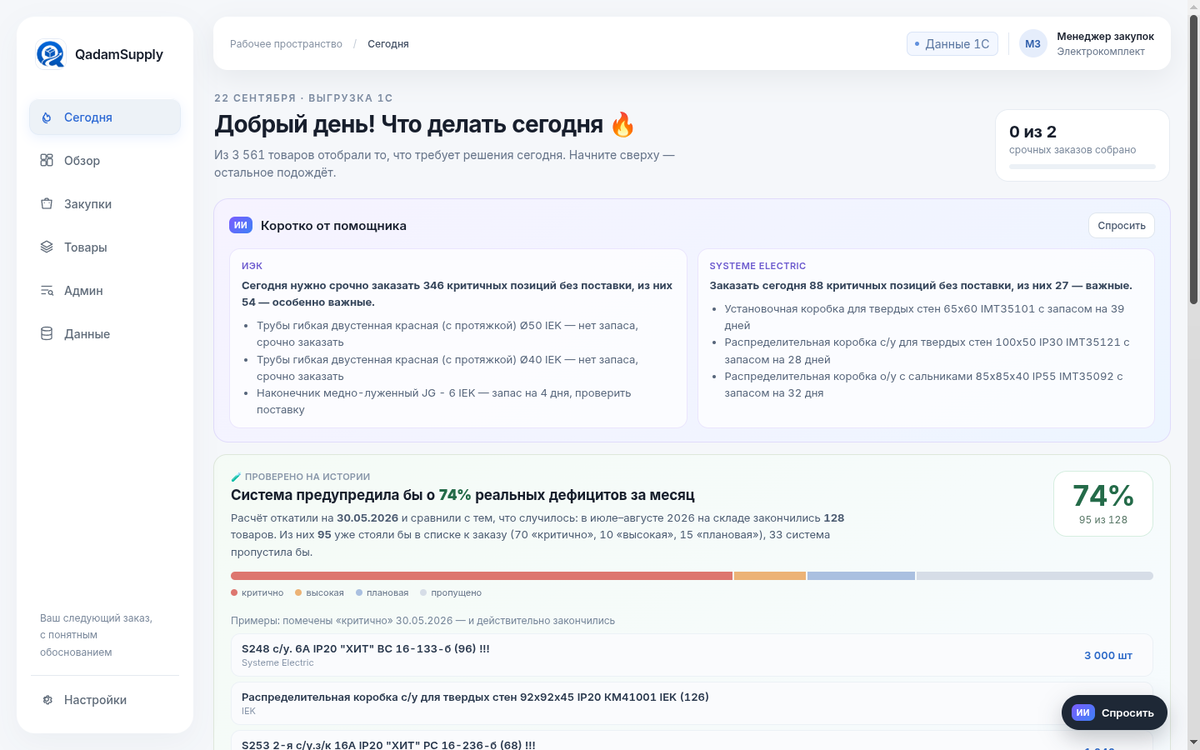
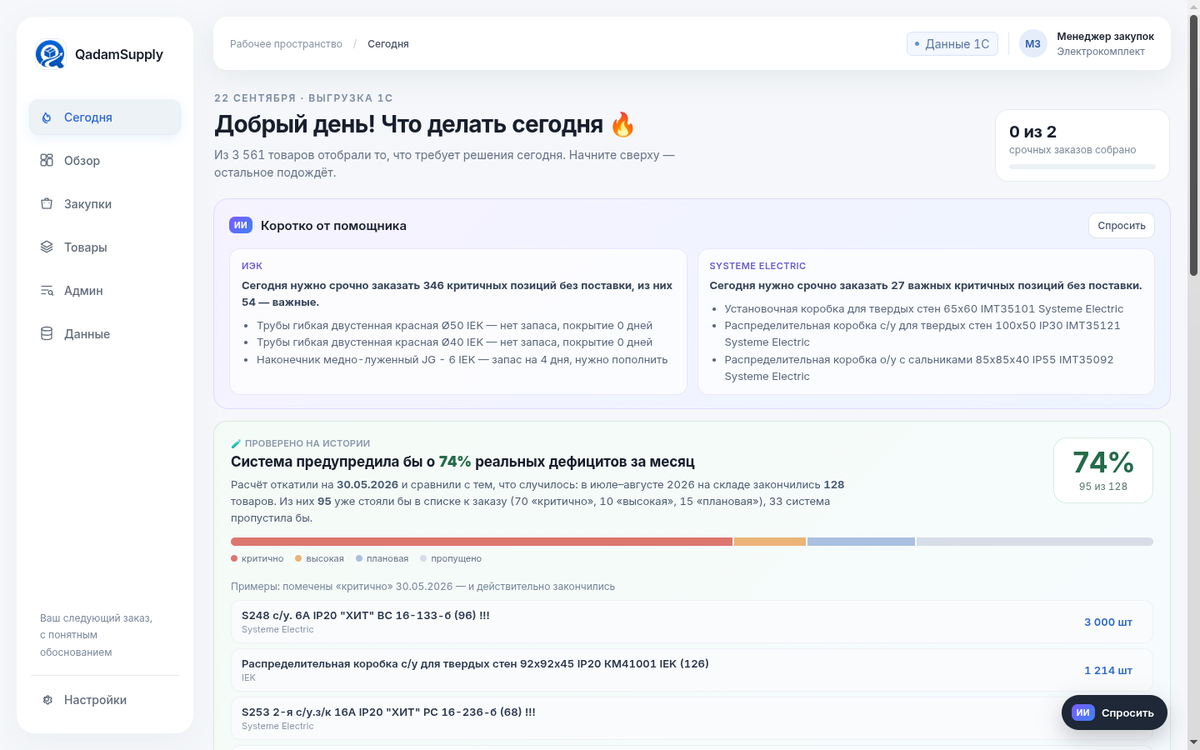
Add run-out dates, money at stake card and overstock filter

diff --git a/web/app.js b/web/app.js
@@ -31,7 +31,7 @@ function readSaved() {
   return {version:demo.version,edits:{},draft:[],rejected:[],approved:null,scenario:'base'};
 }
 const saved=readSaved();
-const state={page:'Сегодня',review:false,restored:false,tab:'recommendations',query:'',supplier:'Все',category:'Все',risk:'Все',transit:'Все',oneoff:'Все',abc:'Все',selected:new Set(),productId:null,detailTab:'recommendation',chartId:'iek-1',showSpike:false};
+const state={page:'Сегодня',review:false,restored:false,overstock:false,tab:'recommendations',query:'',supplier:'Все',category:'Все',risk:'Все',transit:'Все',oneoff:'Все',abc:'Все',selected:new Set(),productId:null,detailTab:'recommendation',chartId:'iek-1',showSpike:false};
 let allProducts=[], sources=[];
 function persist(){try{localStorage.setItem(storageKey,JSON.stringify(saved));}catch{storageFailed=true; toast('Сохранение недоступно. Правки останутся только до закрытия страницы.');}}
 function invalidate(){saved.approved=null;}
@@ -42,13 +42,13 @@ function unitCost(p){return p.unit_cost ?? (p.order_value&&p.recommended_qty?p.o
 function rationale(p){const base=p.reason_text||'';return changed(p)?`${base} Менеджер изменил количество: ${fmt(p.recommended_qty)} → ${fmt(quantity(p))} ${p.unit}${comment(p)?` (${comment(p)})`:''}.`.trim():base;}
 function changed(p){return quantity(p)!==p.recommended_qty;}
 function comment(p){return saved.edits[p.id]?.comment||'';}
-function filtered(){const q=state.query.trim().toLocaleLowerCase('ru');return products().filter(p=>(state.supplier==='Все'||p.supplier===state.supplier)&&(state.category==='Все'||p.category===state.category)&&(state.transit==='Все'||(state.transit==='Есть'?p.in_transit_in_horizon>0:!p.in_transit_in_horizon))&&(state.oneoff==='Все'||(p.excluded_events?.length>0))&&(state.abc==='Все'||p.abc===state.abc)&&(!state.review||needsReview(p))&&(!state.restored||p.lost_qty>0)&&(!q||`${p.name} ${p.article} ${p.sku} ${p.supplier}`.toLocaleLowerCase('ru').includes(q)));}
+function filtered(){const q=state.query.trim().toLocaleLowerCase('ru');return products().filter(p=>(state.supplier==='Все'||p.supplier===state.supplier)&&(state.category==='Все'||p.category===state.category)&&(state.transit==='Все'||(state.transit==='Есть'?p.in_transit_in_horizon>0:!p.in_transit_in_horizon))&&(state.oneoff==='Все'||(p.excluded_events?.length>0))&&(state.abc==='Все'||p.abc===state.abc)&&(!state.review||needsReview(p))&&(!state.restored||p.lost_qty>0)&&(!state.overstock||isOverstock(p))&&(!q||`${p.name} ${p.article} ${p.sku} ${p.supplier}`.toLocaleLowerCase('ru').includes(q)));}
 function toast(message){$('#toast').textContent=message;$('#toast').classList.add('show');clearTimeout(toast.timer);toast.timer=setTimeout(()=>$('#toast').classList.remove('show'),3500);}
-function navigate(page,tab='recommendations'){state.page=page;state.tab=tab;state.query='';state.supplier='Все';state.category='Все';state.risk='Все';state.transit='Все';state.oneoff='Все';state.abc='Все';state.review=false;state.restored=false;state.selected.clear();render();window.scrollTo({top:0,behavior:'instant'});}
+function navigate(page,tab='recommendations'){state.page=page;state.tab=tab;state.query='';state.supplier='Все';state.category='Все';state.risk='Все';state.transit='Все';state.oneoff='Все';state.abc='Все';state.review=false;state.restored=false;state.overstock=false;state.selected.clear();render();window.scrollTo({top:0,behavior:'instant'});}
 function header(title,description,actions=''){return `<header class="header"><div><div class="eyebrow">ПЛАНИРОВАНИЕ ЗАПАСОВ / ${saved.scenario==='growth'?'СЦЕНАРИЙ +20%':'22 СЕНТЯБРЯ 2026'}</div><h1>${title}</h1><p>${description}</p></div><div class="header-actions">${actions}</div></header>`;}
 const btn = (text,action,kind='',extra='')=>`<button class="btn ${kind}" data-action="${action}" ${extra}>${text}</button>`;
 function empty(title,description,action=''){return `<div class="empty"><div class="empty-icon">${icon('box')}</div><h2>${title}</h2><p>${description}</p>${action}</div>`;}
-function filterBar(category=true){return `<div class="filters"><label class="filter-search">${icon('search')}<input id="list-search" aria-label="Поиск по товару, коду или артикулу" placeholder="Товар, код 1С или артикул" value="${esc(state.query)}"></label><select id="supplier-filter" aria-label="Поставщик"><option value="Все">Все поставщики</option>${suppliers.map(s=>`<option ${state.supplier===s?'selected':''}>${s}</option>`).join('')}</select>${category?`<select id="category-filter" aria-label="Категория"><option value="Все">Все категории</option>${[...new Set(allProducts.map(p=>p.category))].map(c=>`<option ${state.category===c?'selected':''}>${c}</option>`).join('')}</select>`:''}${extraFilters()}${state.review?btn('На проверку ✕','clear-review','chip active'):''}${state.restored?btn('Досчитан спрос ✕','clear-restored','chip active'):''}${state.query||state.supplier!=='Все'||state.category!=='Все'||state.transit!=='Все'||state.oneoff!=='Все'||state.abc!=='Все'||state.review||state.restored?btn('Сбросить','clear-filters','text'):''}</div>`;}
+function filterBar(category=true){return `<div class="filters"><label class="filter-search">${icon('search')}<input id="list-search" aria-label="Поиск по товару, коду или артикулу" placeholder="Товар, код 1С или артикул" value="${esc(state.query)}"></label><select id="supplier-filter" aria-label="Поставщик"><option value="Все">Все поставщики</option>${suppliers.map(s=>`<option ${state.supplier===s?'selected':''}>${s}</option>`).join('')}</select>${category?`<select id="category-filter" aria-label="Категория"><option value="Все">Все категории</option>${[...new Set(allProducts.map(p=>p.category))].map(c=>`<option ${state.category===c?'selected':''}>${c}</option>`).join('')}</select>`:''}${extraFilters()}${state.review?btn('На проверку ✕','clear-review','chip active'):''}${state.restored?btn('Досчитан спрос ✕','clear-restored','chip active'):''}${state.overstock?btn('Излишки > 6 мес ✕','clear-overstock','chip active'):''}${state.query||state.supplier!=='Все'||state.category!=='Все'||state.transit!=='Все'||state.oneoff!=='Все'||state.abc!=='Все'||state.review||state.restored||state.overstock?btn('Сбросить','clear-filters','text'):''}</div>`;}
 
 function extraFilters(){
  const abcs=[...new Set(allProducts.map(p=>p.abc).filter(Boolean))].sort();
@@ -112,7 +112,25 @@ function todayTasks(){
  }).filter(t=>t.items.length);
  return {orders,review:ps.filter(needsReview).sort(order),coming:ps.filter(p=>p.urgency==='CRITICAL'&&p.in_transit_in_horizon>0).sort(order),ps};
 }
-function todayItem(p){return `<button class="today-item" data-action="product" data-id="${p.id}"><span class="ti-name">${esc(p.name)}<small>${esc(p.article)}</small></span><span class="ti-stock">${coverCell(p)}</span><span class="ti-qty">${unit(quantity(p),p)}</span></button>`;}
+function todayItem(p){return `<button class="today-item" data-action="product" data-id="${p.id}"><span class="ti-name">${esc(p.name)}<small>${esc(p.article)}</small></span><span class="ti-stock">${(()=>{const r=runout(p);return r?(p.stock_current?`до ${dmy(r.out)}`:'нет в наличии')+(r.gap>0?` · <b class="cover-none">−${r.gap} дн</b>`:''):'—';})()}</span><span class="ti-qty">${unit(quantity(p),p)}</span></button>`;}
+
+// --- даты «закончится / придёт» и деньги (только где есть себестоимость)
+function addDays(n){const d=demo.asOf?new Date(demo.asOf+'T12:00:00'):new Date();d.setDate(d.getDate()+Math.round(n));return d;}
+const dmy=d=>d.toLocaleDateString('ru-RU',{day:'2-digit',month:'2-digit'});
+function runout(p){
+ if(p.cover_days==null)return null;
+ const out=addDays(p.cover_days), arrive=addDays(p.lead_time_days||0), gap=Math.max(0,Math.round((p.lead_time_days||0)-p.cover_days));
+ return {out,arrive,gap};
+}
+function runoutText(p){const r=runout(p);if(!r)return '';return r.gap>0?`закончится ${dmy(r.out)}, поставка при заказе сегодня — ${dmy(r.arrive)} · <b class="cover-none">${r.gap} дн. без товара</b>`:`закончится ${dmy(r.out)}, поставка успевает (${dmy(r.arrive)})`;}
+function isOverstock(p){return (p.base_monthly||0)>0&&p.stock_current>6*p.base_monthly;}
+function moneyCard(ps){
+ const priced=ps.filter(p=>p.unit_cost);if(!priced.length)return '';
+ const sup=[...new Set(priced.map(p=>p.supplier))].map(supplierName).join(', ');
+ const over=priced.filter(isOverstock), overSum=over.reduce((a,p)=>a+(p.stock_current-6*p.base_monthly)*p.unit_cost,0);
+ const risk=priced.filter(p=>p.urgency==='CRITICAL'), riskSum=risk.reduce((a,p)=>a+Math.max(0,p.forecast_horizon-p.stock_current-p.in_transit_in_horizon)*p.unit_cost,0);
+ return `<article class="today-card money"><div class="today-card-head"><span class="today-step">₸</span><div><div class="today-tag">💰 Деньги · ${esc(sup)}</div><h2>Что стоит на кону</h2><p>Считаем по себестоимости из файла менеджера; у ИЭК цен в данных нет.</p></div></div><div class="money-grid"><button class="kpi alert" data-action="today-open" data-supplier="${esc(priced[0].supplier)}" title="Продажи по критичным позициям, которые не покрыты остатком и путём до горизонта"><span>Под риском до поставки</span><strong>${money(riskSum)}</strong><small>${positions(risk.length)} критично</small></button><button class="kpi calm" data-action="overstock" data-supplier="${esc(priced[0].supplier)}" title="Остаток сверх 6 месяцев спроса × себестоимость"><span>Заморожено в излишках</span><strong>${money(overSum)}</strong><small>${positions(over.length)} с запасом > 6 мес.</small></button></div><div class="context-note">${icon('info')} Излишки — деньги, которые можно не тратить на следующий заказ; риск — продажи, которые уйдут к конкуренту без заказа сегодня.</div></article>`;
+}
 function orderTask(t,n){
  const done=t.items.every(p=>saved.draft.includes(p.id)), value=t.items.reduce((a,p)=>a+(p.order_value||0),0);
  const imp=t.important?(t.supplier==='IEK'?' категории A':' категории 1'):'';
@@ -133,6 +151,7 @@ function today(){
  const hero=`<section class="today-hero"><div><div class="eyebrow">${esc(dateLabel())}</div><h1>${hello}! Что делать сегодня 🔥</h1><p>Из ${fmt(ps.length)} товаров отобрали то, что требует решения сегодня. Начните сверху — остальное подождёт.</p></div>${orders.length?`<button class="today-progress" data-action="open-draft" title="Открыть черновик"><strong>${done} из ${orders.length}</strong><span>срочных заказов собрано</span><div class="bar"><i style="width:${done/orders.length*100}%"></i></div></button>`:''}</section>${aiBriefBlock()}${backtestCard()}`;
  const fire=orders.length?`<section class="today-fire">${orders.map((t,i)=>orderTask(t,i+1)).join('')}</section>`:`<div class="notice info"><div>${icon('check')}</div><div><strong>Срочных заказов нет</strong>По всем критичным позициям уже едет поставка.</div></div>`;
  const side=[
+  moneyCard(ps),
   review.length?smallTask('warn','⚠ Проверить',++n,'Проверить перед заказом',`<strong>${positions(review.length)}</strong>: кратность сильно увеличила заказ или он заметно больше обычных продаж. Посмотрите и поправьте количество.`,review,'today-review','Разобрать список'):'',
   coming.length?smallTask('info','🚚 Проследить',++n,'Проследить за поставками',`<strong>${positions(coming.length)}</strong> в критичном запасе, но поставка уже едет. Проверьте, что приход не задержится.`,coming,'today-coming','Посмотреть'):'',
   `<article class="today-card ok"><div class="today-card-head"><span class="today-step">${icon('check')}</span><div><div class="today-tag">✅ Уже сделано за вас</div><h2>Расчёт готов</h2></div></div><ul class="today-checks"><li><button class="check-link" data-action="catalog">Пересчитали <strong>${fmt(ps.length)}</strong> товаров по данным на ${esc(dateLabel().split(' · ')[0])}</button></li>${oneoff?`<li><button class="check-link" data-action="oneoff">Исключили разовые сделки у <strong>${fmt(oneoff)}</strong> товаров — они не раздувают заказ</button></li>`:''}${restored?`<li><button class="check-link" data-action="today-restored">Досчитали спрос у <strong>${fmt(restored)}</strong> товаров за месяцы без остатка</button></li>`:''}</ul><div class="today-actions">${loop?btn('Пример: разовая сделка','today-example','small',`data-id="${esc(loop.id)}"`):''}${btn('Весь обзор','go-overview','small')}</div></article>`,
@@ -258,7 +277,7 @@ function detailsBody(p){
  if(state.detailTab==='history')return `<div class="card-sub">${p.history_label||(p.id==='iek-loop'?'Архивный демо-кейс · апрель — ноябрь 2025':'Демо · апрель — ноябрь 2026; сентябрь — неполный месяц')} · ${p.unit}<br>График базового сценария</div>${chart(p,{detail:true,spike:state.showSpike})}${p.excluded_events.map(e=>`<div class="event-card"><strong>Разовая крупная продажа скорректирована</strong><br>${e.date} · накладная ${e.doc}<br>Продажа: <strong>${unit(e.qty,p)}</strong> → учтено ${unit(e.threshold,p)}<br>Из регулярного спроса исключено ${unit(e.excess,p)}</div>`).join('')}${p.lost_qty?`<div class="notice"><div>${icon('info')}</div><div><strong>Восстановлен упущенный спрос</strong>${p.restored_text?p.restored_text+'<br>':'Июль: факт 4 шт. → скорректированный спрос 52 шт.<br>'}Восстановлено ${unit(p.lost_qty,p)} из-за отсутствия товара.</div></div>`:''}<details class="disclosure"><summary>Посмотреть значения по месяцам</summary><table class="history-table"><thead><tr><th>Месяц</th><th class="num">Факт</th><th class="num">Скорр.</th><th class="num">Прогноз</th></tr></thead><tbody>${p.history.map(s=>`<tr><td>${s.month}</td><td class="num">${s.raw===null?'—':fmt(s.raw)}</td><td class="num">${s.clean===null?'—':fmt(s.clean)}</td><td class="num">${s.forecast===null?'—':fmt(s.forecast)}</td></tr>`).join('')}</tbody></table></details>`;
  if(state.detailTab==='data')return `<div class="notice"><div>${icon('alert')}</div><div><strong>${p.quality}</strong>${p.warnings.map(esc).join('<br>')}</div></div><div class="details-grid"><div class="detail-tile">Код 1С<strong>${p.sku}</strong></div><div class="detail-tile">Единица измерения<strong>${p.unit}</strong></div><div class="detail-tile">Срок поставки<strong>${p.lead_time_days} дней</strong></div><div class="detail-tile">Кратность заказа<strong>${unit(p.moq,p)}</strong></div></div><p class="reason">Все значения этой карточки заданы в демо-наборе. Они не являются результатом обработки реальных файлов.</p><details class="disclosure" open><summary>Источники и актуальность</summary><p>${demo.live?`Продажи и транзит: выгрузка 1С на ${demo.asOf.split('-').reverse().join('.')}.<br>${p.warnings.map(esc).join('<br>')}`:`Продажи и транзит: демо-снимок на 22.09.2026.<br>Остатки: демонстрационная оценка.<br>${p.id==='iek-loop'?'График LOOP показывает отдельный архивный кейс 2025 года.':''}`}</p></details>`;
  const rounded=Math.max(0,p.need);
- return `<div class="recommendation-hero"><div class="label">Рекомендуем ${p.recommended_qty?'заказать':'сохранить текущий запас'}</div><div class="value">${fmt(p.recommended_qty)} <span>${p.unit}</span></div><p>${p.recommended_qty?`На горизонт ${days(p.horizon_days??demo.horizon)} · кратность ${unit(p.moq,p)}`:'Дополнительный заказ не требуется'}${saved.scenario==='growth'?' · сценарий +20%':''}</p></div><div class="section-label">Почему именно столько</div><div class="breakdown">${[['forecast','Прогноз на горизонт',p.forecast_horizon,''],['safety','Страховой запас',p.safety_stock,'+'],['stock','Текущий остаток',p.stock_current,'−'],['transit','Товар в пути',p.in_transit_in_horizon,'−']].map(([k,label,n,sign])=>bdRow(p,k,label,`${sign} ${unit(n,p)}`)).join('')}${bdRow(p,'need','Потребность до округления',unit(rounded,p))}${bdRow(p,'moq',p.need<=0?'Запаса достаточно':'С учётом кратности',unit(p.recommended_qty,p),'total')}</div><div class="bd-hint">${icon('info')} Нажмите на строку, чтобы увидеть, из чего она сложилась</div>${demo.live?`<div class="explain-row">${btn('<span class="ai-badge">ИИ</span> Объяснить простыми словами','explain-product','small')}</div>`:''}${reasonList(p)}<div class="details-grid"><div class="detail-tile">Запаса хватит<strong>${days(p.cover_days)}</strong></div><div class="detail-tile">Срок поставки<strong>${days(p.lead_time_days)}</strong>${leadSource(p)}</div>${p.horizon_days?`<div class="detail-tile">Горизонт расчёта<strong>${days(p.horizon_days)}</strong><small>срок поставки + ${demo.reviewDays} дн. до следующего заказа</small></div>`:''}${p.abc?`<div class="detail-tile">Категория важности<strong>${esc(p.abc)}</strong><small>${abcHint(p.abc)}</small></div>`:''}</div>${whatIfBlock(p)}${saved.scenario==='growth'?'<div class="notice info">Срочность, покрытие и графики показаны для базового сценария. '+(demo.live?'Количество +20% пересчитано движком.':'Количество +20% задано заранее.')+'</div>':''}<details class="disclosure"><summary>${p.quality} · посмотреть оговорки</summary><p>${p.warnings.map(esc).join('<br>')}</p></details><div class="edit-form"><label for="detail-qty">Ваше количество к заказу</label><div class="qty"><input id="detail-qty" type="number" min="0" step="1" value="${quantity(p)}">${p.unit}</div><div class="field-hint">Рекомендация ${unit(p.recommended_qty,p)} останется видимой. Кратность: ${unit(p.moq,p)}</div><label for="detail-comment" style="margin-top:14px">Комментарий к решению</label><textarea id="detail-comment" maxlength="500" placeholder="Например: согласовано с менеджером проекта">${esc(comment(p))}</textarea><div id="detail-error" class="field-error" role="alert"></div>${btn('Сохранить правку','save-edit','small')}</div>`;
+ return `<div class="recommendation-hero"><div class="label">Рекомендуем ${p.recommended_qty?'заказать':'сохранить текущий запас'}</div><div class="value">${fmt(p.recommended_qty)} <span>${p.unit}</span></div><p>${p.recommended_qty?`На горизонт ${days(p.horizon_days??demo.horizon)} · кратность ${unit(p.moq,p)}`:'Дополнительный заказ не требуется'}${saved.scenario==='growth'?' · сценарий +20%':''}</p>${p.urgency==='CRITICAL'||p.urgency==='HIGH'?`<p class="runout">${runoutText(p)}</p>`:''}</div><div class="section-label">Почему именно столько</div><div class="breakdown">${[['forecast','Прогноз на горизонт',p.forecast_horizon,''],['safety','Страховой запас',p.safety_stock,'+'],['stock','Текущий остаток',p.stock_current,'−'],['transit','Товар в пути',p.in_transit_in_horizon,'−']].map(([k,label,n,sign])=>bdRow(p,k,label,`${sign} ${unit(n,p)}`)).join('')}${bdRow(p,'need','Потребность до округления',unit(rounded,p))}${bdRow(p,'moq',p.need<=0?'Запаса достаточно':'С учётом кратности',unit(p.recommended_qty,p),'total')}</div><div class="bd-hint">${icon('info')} Нажмите на строку, чтобы увидеть, из чего она сложилась</div>${demo.live?`<div class="explain-row">${btn('<span class="ai-badge">ИИ</span> Объяснить простыми словами','explain-product','small')}</div>`:''}${reasonList(p)}<div class="details-grid"><div class="detail-tile">Запаса хватит<strong>${days(p.cover_days)}</strong></div><div class="detail-tile">Срок поставки<strong>${days(p.lead_time_days)}</strong>${leadSource(p)}</div>${p.horizon_days?`<div class="detail-tile">Горизонт расчёта<strong>${days(p.horizon_days)}</strong><small>срок поставки + ${demo.reviewDays} дн. до следующего заказа</small></div>`:''}${p.abc?`<div class="detail-tile">Категория важности<strong>${esc(p.abc)}</strong><small>${abcHint(p.abc)}</small></div>`:''}</div>${whatIfBlock(p)}${saved.scenario==='growth'?'<div class="notice info">Срочность, покрытие и графики показаны для базового сценария. '+(demo.live?'Количество +20% пересчитано движком.':'Количество +20% задано заранее.')+'</div>':''}<details class="disclosure"><summary>${p.quality} · посмотреть оговорки</summary><p>${p.warnings.map(esc).join('<br>')}</p></details><div class="edit-form"><label for="detail-qty">Ваше количество к заказу</label><div class="qty"><input id="detail-qty" type="number" min="0" step="1" value="${quantity(p)}">${p.unit}</div><div class="field-hint">Рекомендация ${unit(p.recommended_qty,p)} останется видимой. Кратность: ${unit(p.moq,p)}</div><label for="detail-comment" style="margin-top:14px">Комментарий к решению</label><textarea id="detail-comment" maxlength="500" placeholder="Например: согласовано с менеджером проекта">${esc(comment(p))}</textarea><div id="detail-error" class="field-error" role="alert"></div>${btn('Сохранить правку','save-edit','small')}</div>`;
 }
 
 function leadSource(p){const src=(demo.leadText?.[p.supplier]||'').split('·')[1];return src?`<small>${esc(src.trim())}</small>`:'';}
@@ -480,7 +499,9 @@ const actions={
  'category-trend':b=>{navigate('Закупки');state.category=b.dataset.category;render();},
  'risk':b=>{navigate('Закупки');state.risk=b.dataset.risk;render();},
  'filter-risk':b=>{state.risk=b.dataset.risk;state.selected.clear();render();},
- 'clear-filters':()=>{state.query='';state.supplier='Все';state.category='Все';state.risk='Все';state.transit='Все';state.oneoff='Все';state.abc='Все';state.review=false;state.restored=false;state.selected.clear();render();},
+ 'clear-filters':()=>{state.query='';state.supplier='Все';state.category='Все';state.risk='Все';state.transit='Все';state.oneoff='Все';state.abc='Все';state.review=false;state.restored=false;state.overstock=false;state.selected.clear();render();},
+ 'clear-overstock':()=>{state.overstock=false;render();},
+ 'overstock':b=>{navigate('Товары');Object.assign(state,{overstock:true,supplier:b.dataset.supplier||'Все'});render();},
  'clear-restored':()=>{state.restored=false;render();},
  'clear-review':()=>{state.review=false;render();},
  'urgent-bare':b=>{navigate('Закупки');Object.assign(state,{risk:'CRITICAL',transit:'Нет',supplier:b.dataset.supplier||'Все'});render();},

diff --git a/web/styles.css b/web/styles.css
@@ -334,3 +334,8 @@ td.product .product-open strong{display:-webkit-box;-webkit-line-clamp:2;-webkit
 .ans .ans-link{border:0;background:none;padding:0;font:inherit;color:#2869c9;text-decoration:underline dotted;cursor:pointer;text-align:left}
 .ans .ans-link:hover{color:#1c4fa0}
 .msg.bot .ans{color:#2c3d54}
+
+.today-card.money:before{background:#2f8a5c}
+.today-card.money .today-step{background:#edf8f1;color:#1f6b47;font-size:15px}
+.money-grid{display:grid;grid-template-columns:repeat(2,minmax(0,1fr));gap:8px}
+.runout{margin:6px 0 0!important;font-size:12.5px!important;color:#56667c!important}

diff --git a/README.md b/README.md
@@ -37,6 +37,7 @@
 | ИИ | считает заказ | объясняет и отвечает на «что если», **каждое число сверяется с расчётом** |
 | Разовые сделки | ломают среднее | накладная 210 000 шт исключена, но видна на графике и в обосновании |
 | Управление | правки в коде | админка: сроки, сервис, правила менеджера «минимум N по товару» |
+| Язык | «критично», «cover days» | **«закончится 28.09, поставка придёт 17.10 — 19 дней без товара»** и деньги: под риском / заморожено в излишках, ₸ |
 
 ## 🧪 Проверено на истории — наш козырь
 
@@ -62,6 +63,12 @@
 сделала за вас. Сверху — сводка от ИИ-помощника.
 
 <p align="center"><img src="docs/screenshots/today.png" width="900" alt="Что делать сегодня"></p>
+
+Ниже на том же экране — **деньги**: по Systeme Electric (там есть себестоимость) 58 млн ₸ продаж под риском до
+поставки и 24 млн ₸ заморожено в излишках со сроком больше 6 месяцев. Излишки — это деньги, которые можно
+не тратить на следующий заказ.
+
+<p align="center"><img src="docs/screenshots/money.png" width="900" alt="Деньги на кону"></p>
 
 ### 2. Карточка товара — «почему именно столько»
 
